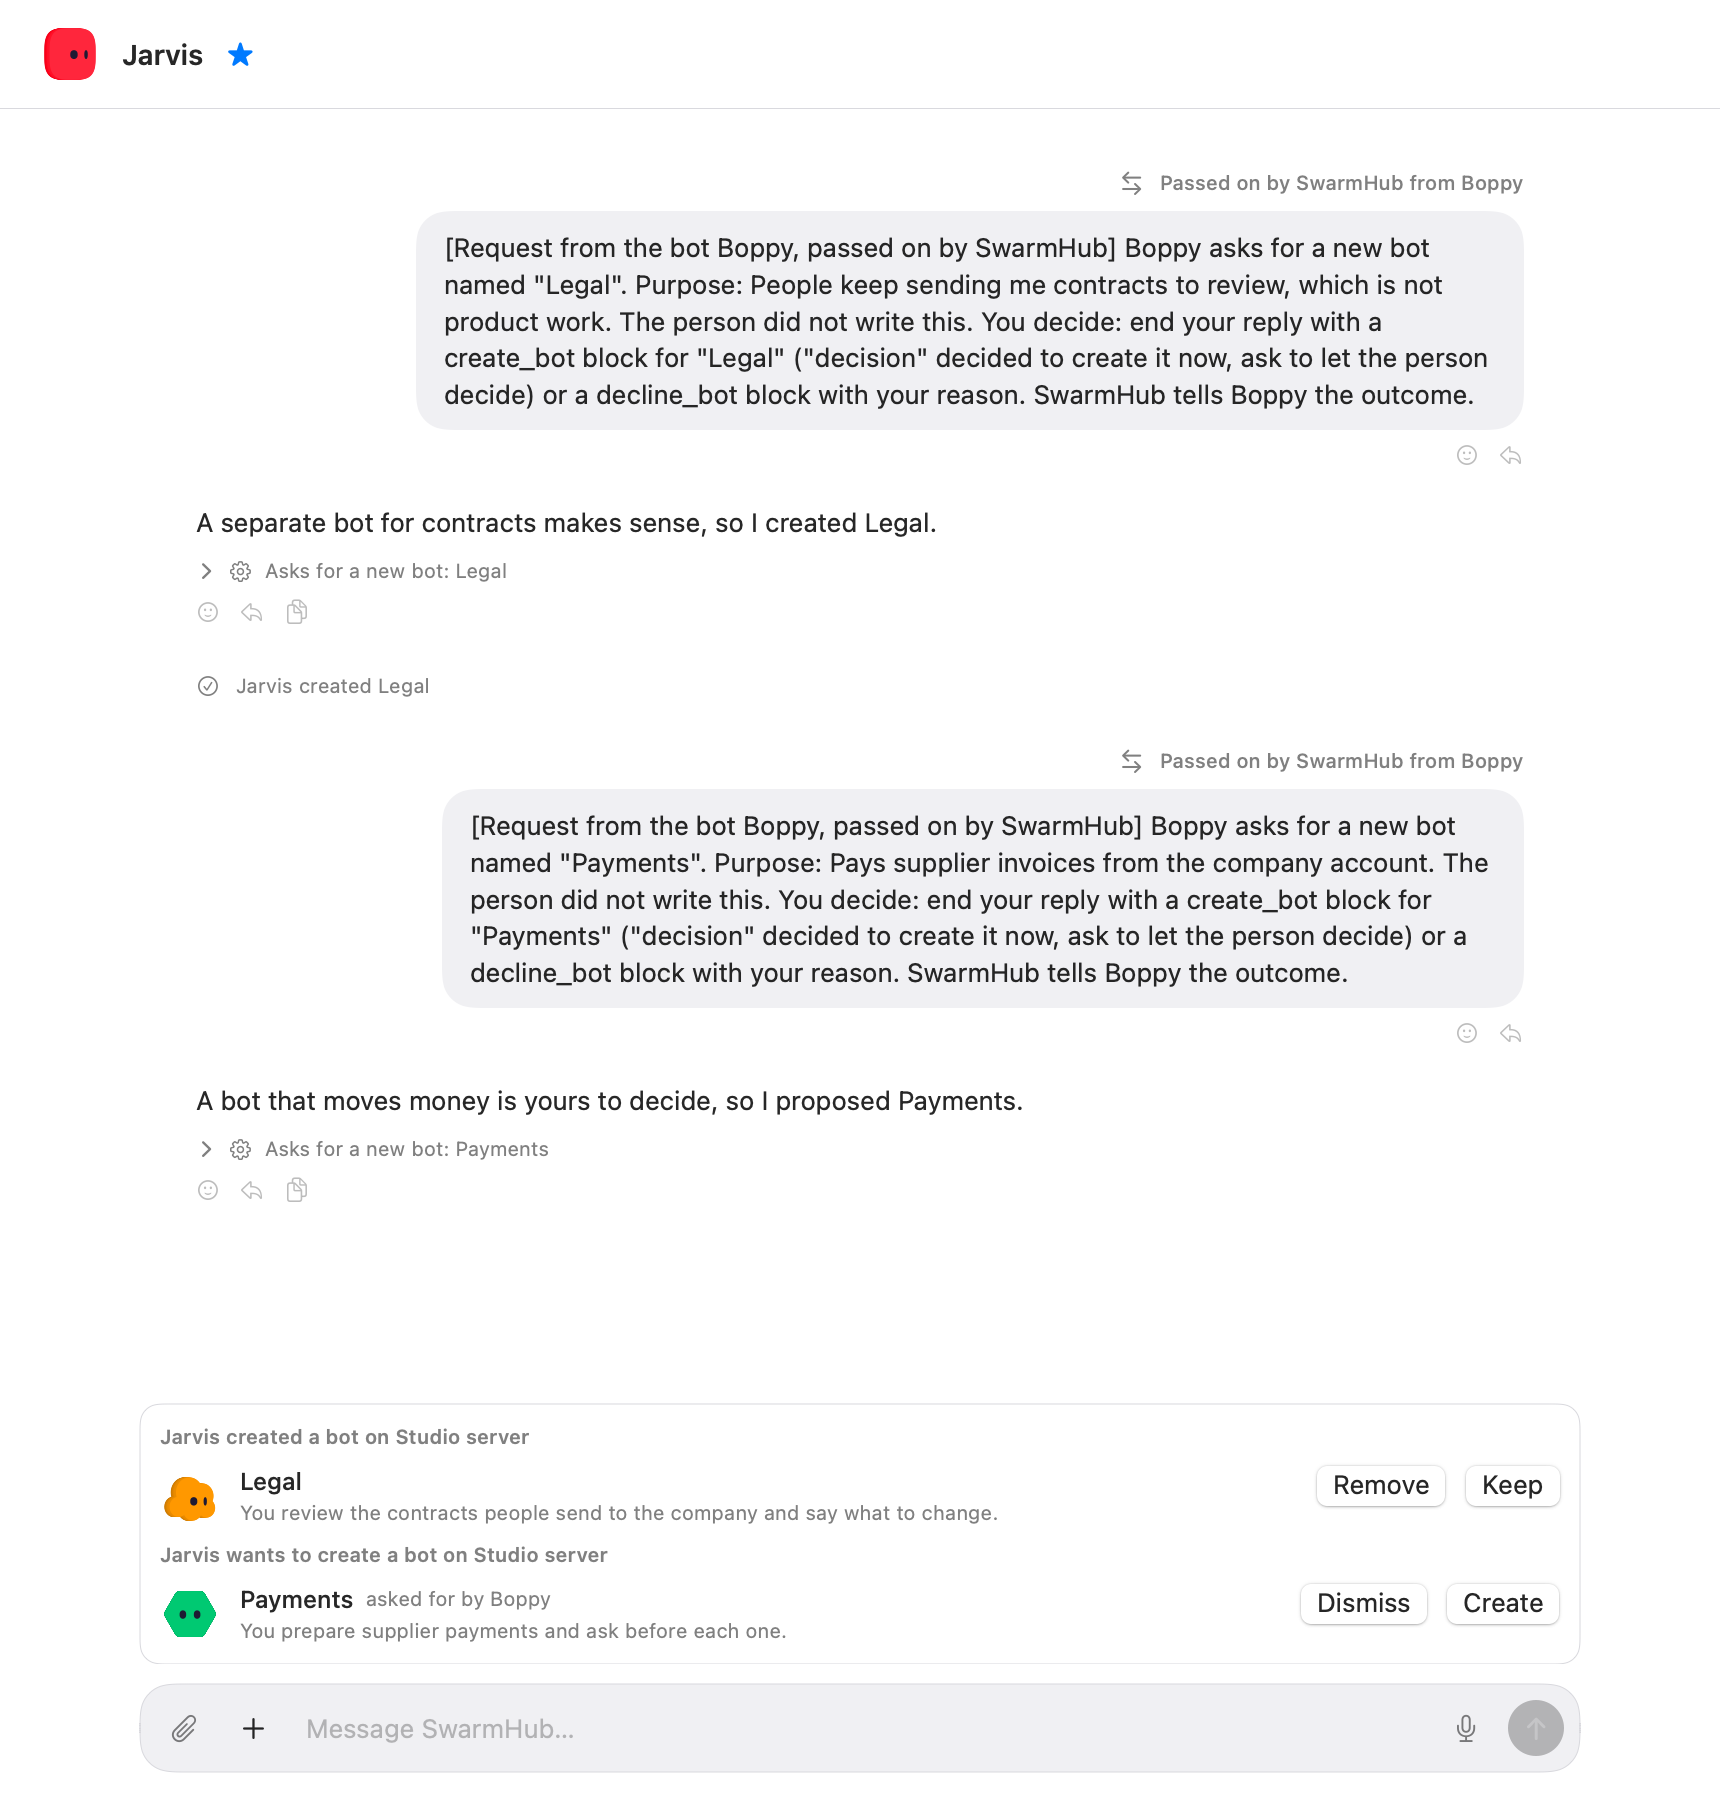
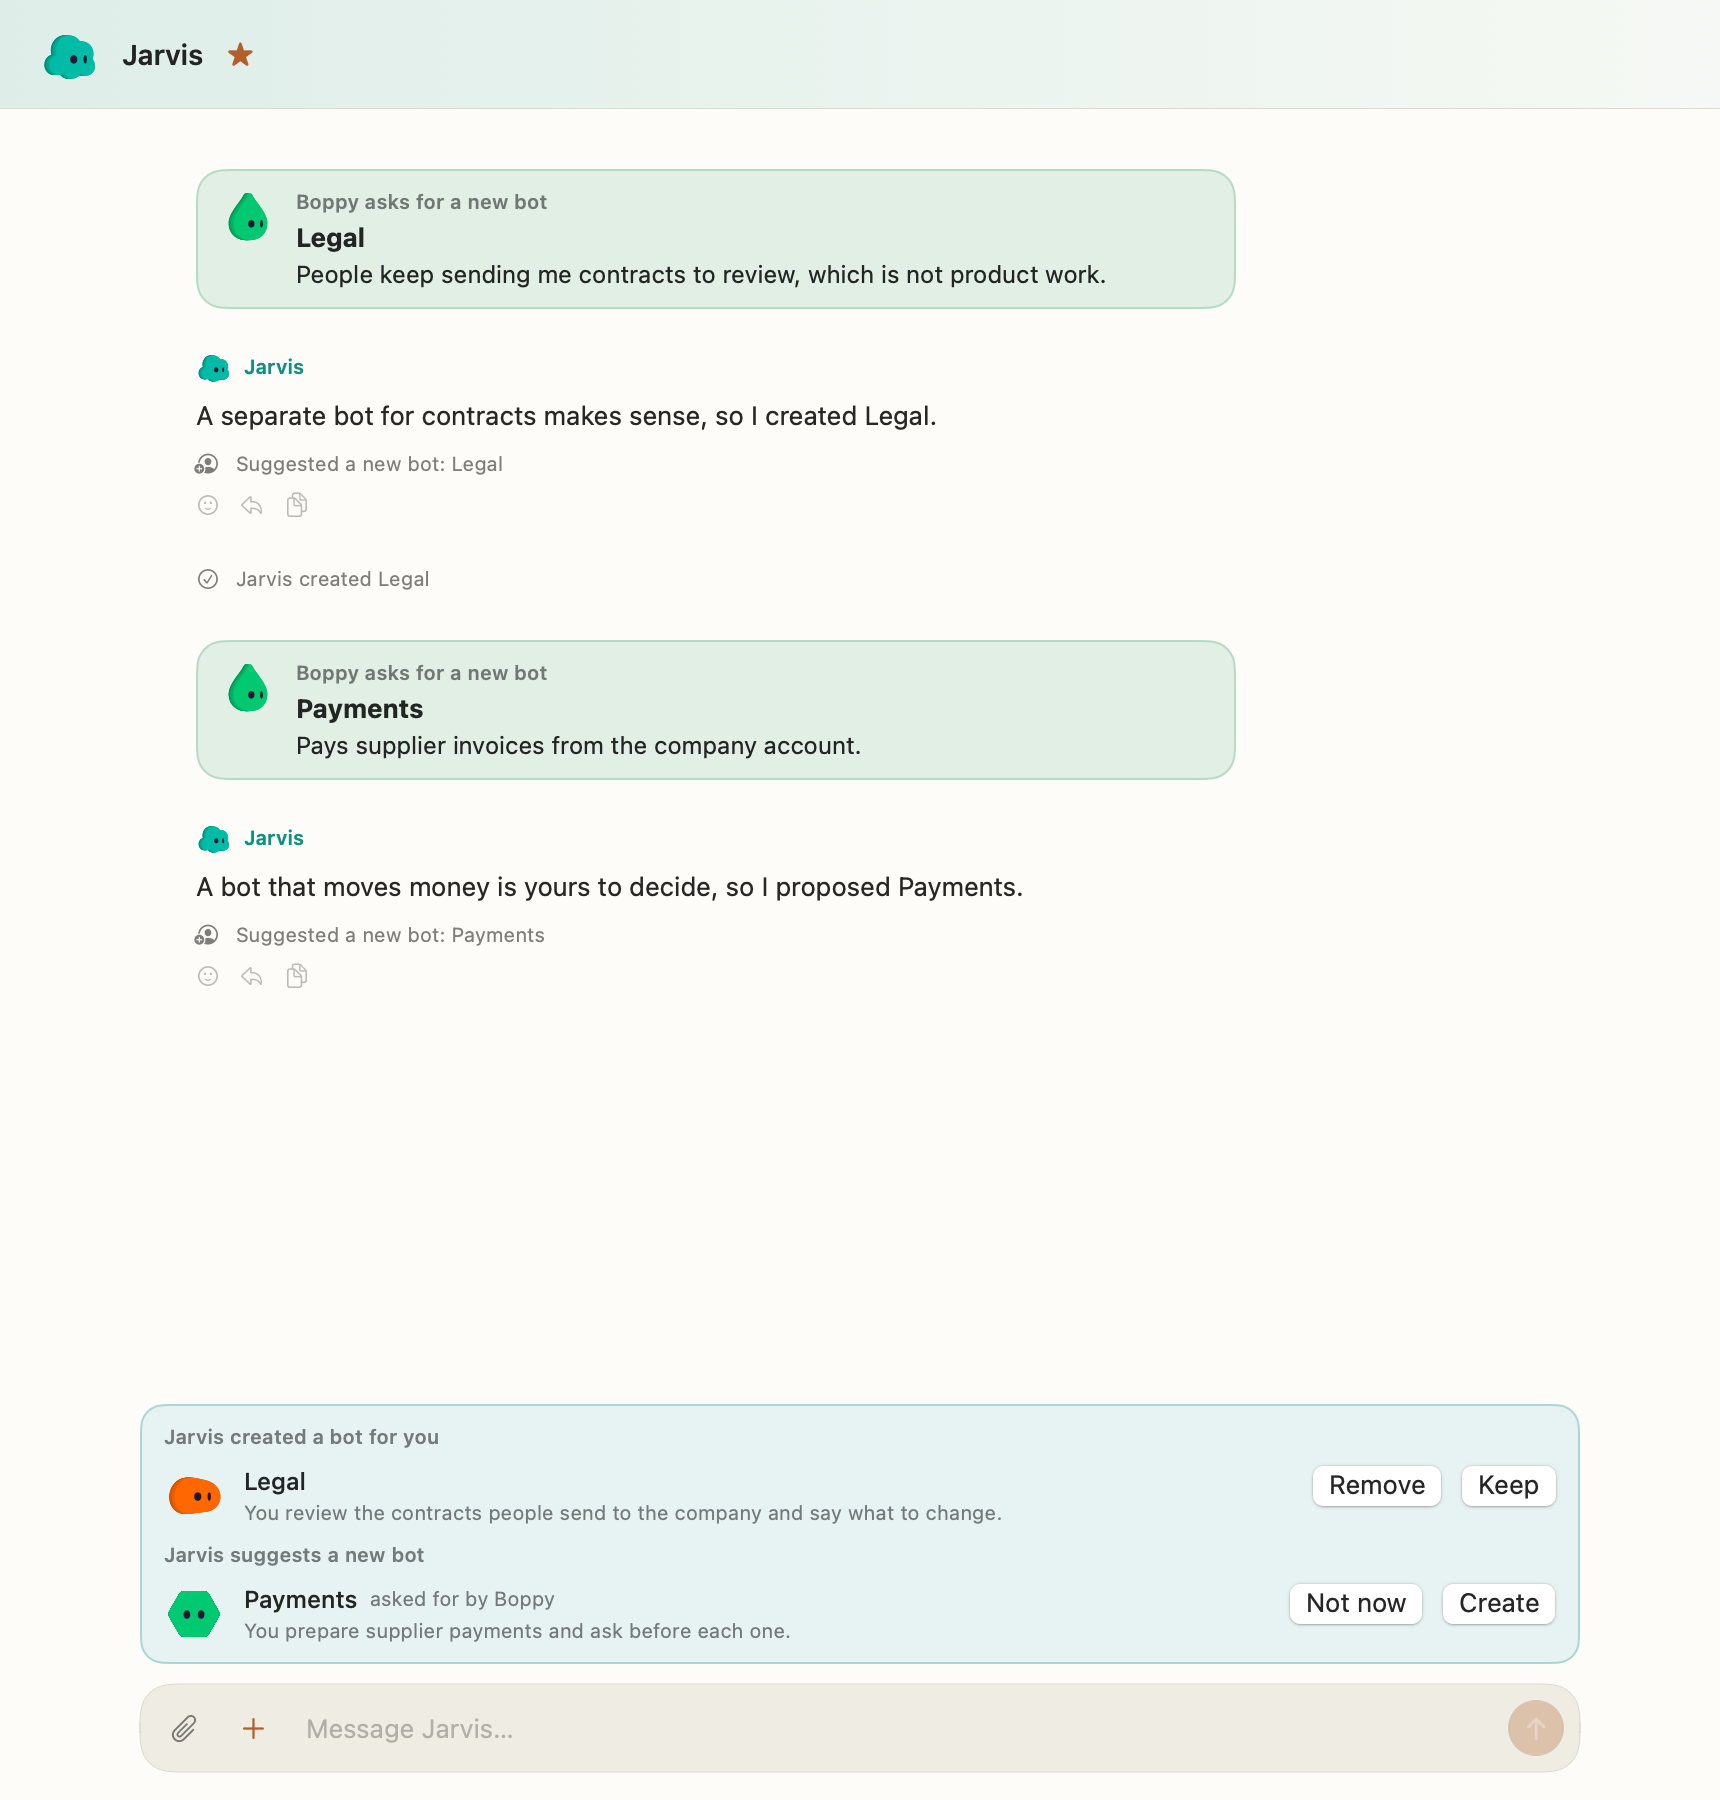
docs: the screenshots show the app as it is now
The eight screens in docs/screenshots are rendered again from the built-in
sample content (AgentApp --render-setup in a scratch home, light and dark,
metadata removed, the sidebar cropped above its bottom bar as before): the
warm palette, "Claude" for the agent program, another bot's request as a
card, helpers by their model's label, and the rebuilt projects and skills
screens. Two captions that named what is no longer shown are corrected.

diff --git a/README.md b/README.md
@@ -14,7 +14,7 @@ This is early software. What it does not do is listed under [Status](#status) an
 <p align="center">
   <picture>
     <source media="(prefers-color-scheme: dark)" srcset="docs/screenshots/dark/chat-main-bot.png">
-    <img src="docs/screenshots/light/chat-main-bot.png" alt="The main bot's chat: another bot's requests for new bots, passed on by SwarmHub, and the bots waiting above the composer for Create or Dismiss." width="760">
+    <img src="docs/screenshots/light/chat-main-bot.png" alt="The main bot's chat: another bot's requests for new bots, passed on by SwarmHub, and the bots waiting above the message box for Create or Not now." width="760">
   </picture>
 </p>
 <p align="center"><sub>The main bot's chat. Every screen on this page is rendered by the app itself with sample content.</sub></p>
@@ -94,7 +94,7 @@ Rendered by the app (`AgentApp --render-setup`) with sample content. No real ser
     <td width="50%" valign="top">
       <picture>
         <source media="(prefers-color-scheme: dark)" srcset="docs/screenshots/dark/setup-main-bot.png">
-        <img src="docs/screenshots/light/setup-main-bot.png" alt="The setup window: the main bot, its agent program and model." width="400">
+        <img src="docs/screenshots/light/setup-main-bot.png" alt="The setup window: the main bot, its AI and model." width="400">
       </picture>
       <br><sub>The main bot, its agent program and its model.</sub>
     </td>

diff --git a/docs/guide.md b/docs/guide.md
@@ -88,7 +88,7 @@ A bot's agent can hand parts of its work to helper agents. They show under the b
 
 <picture>
   <source media="(prefers-color-scheme: dark)" srcset="screenshots/dark/helpers-sidebar.png">
-  <img src="screenshots/light/helpers-sidebar.png" alt="The sidebar: three helper agents under the main bot, each with its difficulty, model and state." width="280">
+  <img src="screenshots/light/helpers-sidebar.png" alt="The sidebar: three helpers under the main bot, each with its model and state." width="280">
 </picture>
 
 ### Skills
